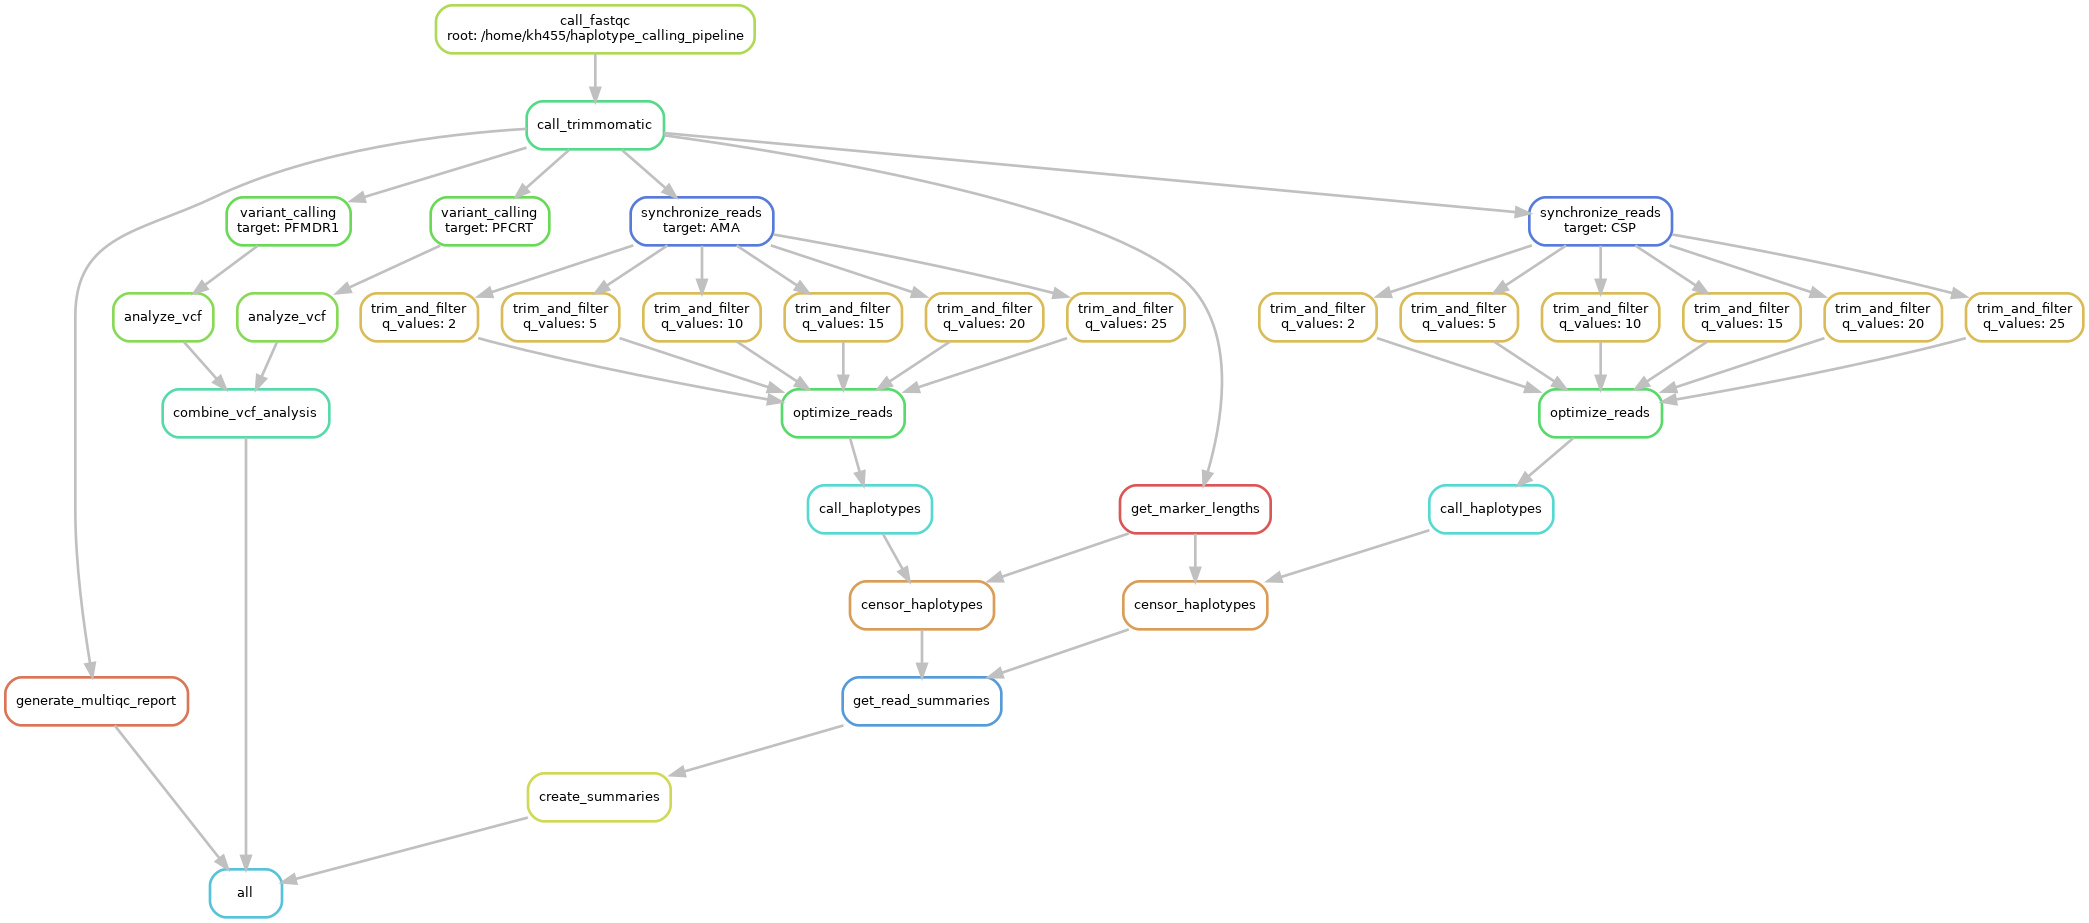
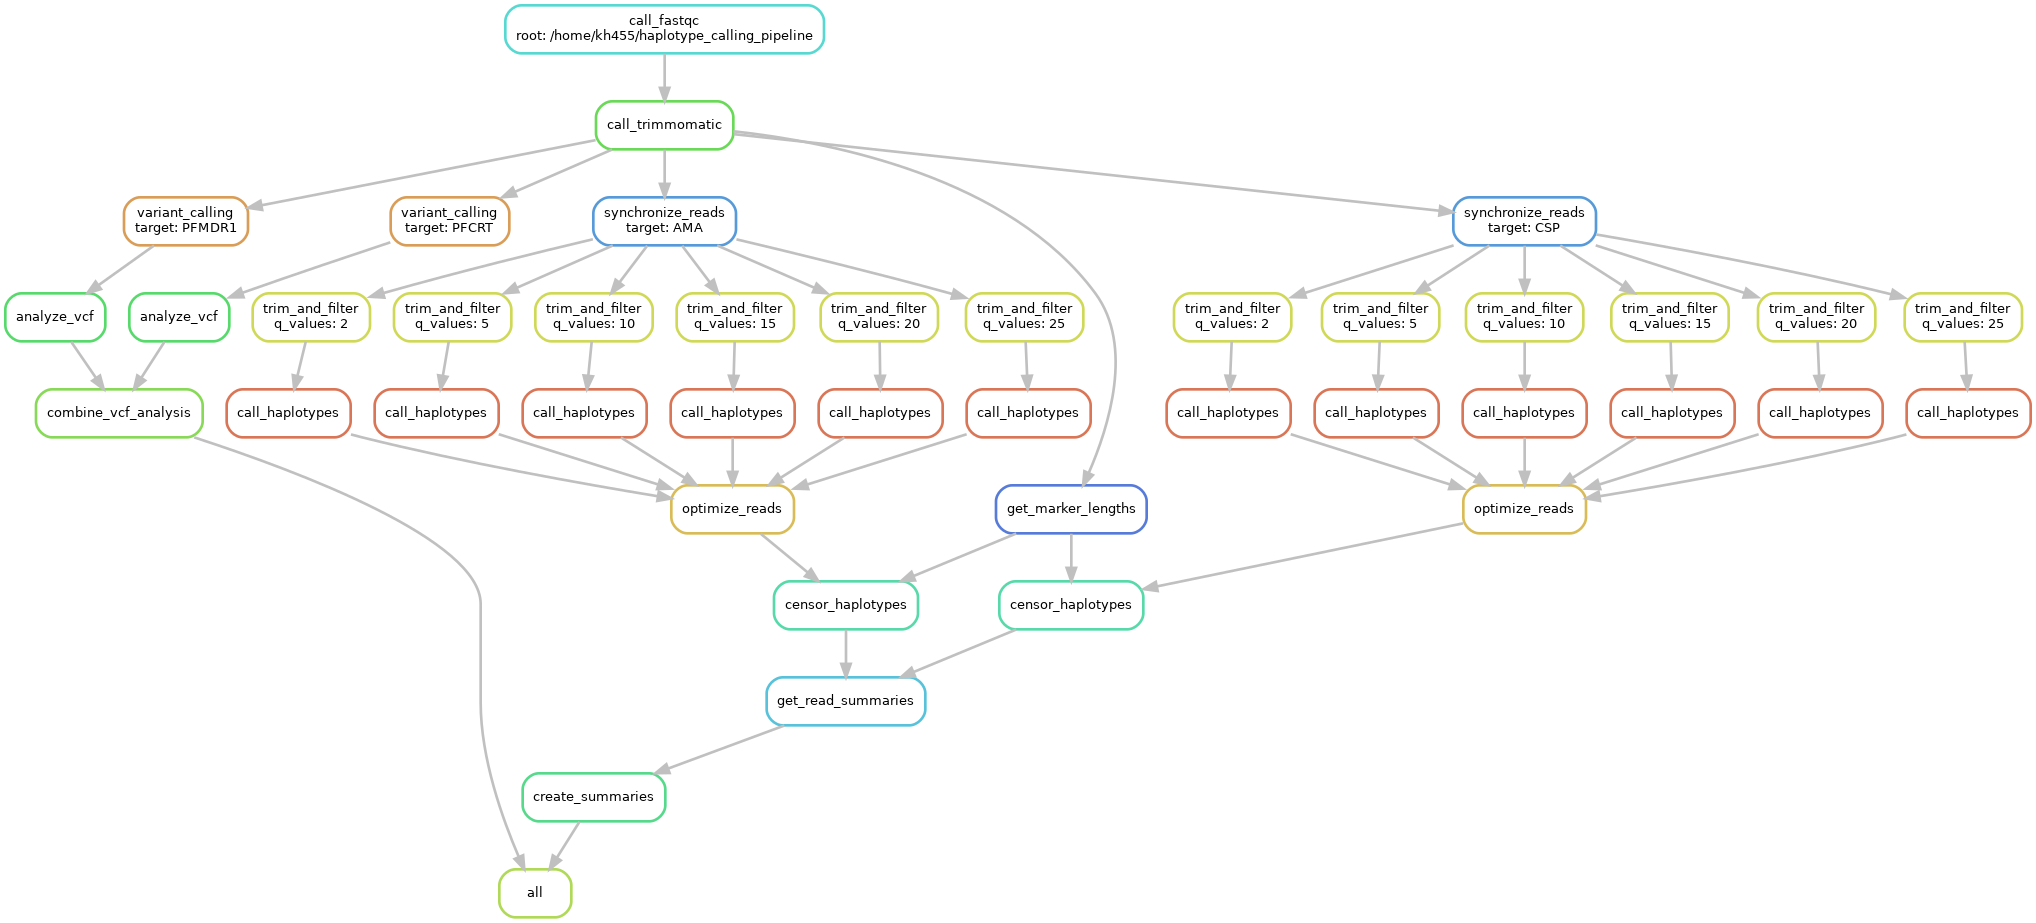
updated README and dag

diff --git a/README.md b/README.md
@@ -46,9 +46,9 @@ These first three rules are called for the given input data, regardless of wheth
 
 `trim_and_filter` filters and trims the forward and reverse reads using the DADA2 program and outputs them into a `filtered` folder.
 
-`optimize_reads` finds the quality score that produces the highest number of read counts and uses only the filtered reads created using that quality score.
-
 `call_haplotypes` calls haplotypes for your target(s) and writes the results out into a reads table.
+
+`optimize_reads` finds the quality score that produces the highest number of read counts and uses only the filtered reads created using that quality score.
 
 `censor_haplotypes` censors falsely detected haplotypes. Censoring criteria is applied in this order:
 1. Haplotypes that occur in < 250 of the sample’s reads are removed. You can change this criteria in the config file ("read_depth").
@@ -310,32 +310,6 @@ And the AMA read count table looked like this:
 | 5  | 81096  |
 | 10 | 116036 |
 
-`optimize_reads` should produce an `optimize_reads_out` folder with 3 files: `{target}_final_q_value`, `{target}_max_read_count`, and `{target}_final_trim_and_filter_table`.
-- `{target}_final_q_value`: contains the quality score that produced the highest number of read counts.
-- `{target}_max_read_count`: contains the value of the highest number of read counts—the read count associated with the optimal quality score.
-- `{target}_finalTrimAndFilterTable`: contains the trim and filter table that was created with the optimal quality score.
-
-With our small sample, the AMA final q value was:
-`10`
-
-The AMA max read count was:
-`116036`
-
-And the final AMA trim and filter table looked like this:
-
-|                     | reads.in | reads.out |
-|---------------------|----------|-----------|
-| BF1_AMA_1.fastq.gz  | 13072    | 11777     |
-| BF10_AMA_1.fastq.gz | 14875    | 13384     |
-| BF2_AMA_1.fastq.gz  | 15269    | 13718     |
-| BF3_AMA_1.fastq.gz  | 10116    | 8491      |
-| BF4_AMA_1.fastq.gz  | 13672    | 12226     |
-| BF5_AMA_1.fastq.gz  | 12650    | 11119     |
-| BF6_AMA_1.fastq.gz  | 14591    | 13085     |
-| BF7_AMA_1.fastq.gz  | 12760    | 11350     |
-| BF8_AMA_1.fastq.gz  | 11474    | 10326     |
-| BF9_AMA_1.fastq.gz  | 12432    | 10560     |
-
 `call_haplotypes` should add a temporary file `{target}_haplotypes.rds` to the `haplotype_output` folder as well as a file `{target}_track_reads_through_pipeline.csv` to the `trim_filter_out` folder. 
 - `{target}_haplotypes.rds`: R file that stores the haplotype results data set for further manipulation in `censor_haplotypes`. 
 - `{target}_track_reads_through_pipeline.csv`: tracks the reads, looking at the number of reads that made it through each step of the pipeline.
@@ -354,6 +328,32 @@ With our small sample, the track reads through pipeline table for AMA looked lik
 | BF7  | 11049  | 11049  | 10773   |
 | BF8  | 10314  | 10314  | 10314   |
 | BF9  | 10549  | 10549  | 10549   |
+
+`optimize_reads` should produce an `optimize_reads_out` folder with 3 files: `{target}_final_q_value`, `{target}_max_read_count`, and `{target}_final_track_reads_through_pipeline`.
+- `{target}_final_q_value`: contains the quality score that produced the highest number of read counts.
+- `{target}_max_read_count`: contains the value of the highest number of read counts—the read count associated with the optimal quality score.
+- `{target}_final_track_reads_through_pipeline`: contains the reads table that was created with the optimal quality score.
+
+With our small sample, the AMA final q value was:
+`10`
+
+The AMA max read count was:
+`114561`
+
+And the final AMA trim and filter table looked like this:
+
+|      |merged|tabled|nonchim|
+|------|------|------|-------|
+|BF1   |11768 |11768 |11768  |
+|BF10  |13377 |13377 |13377  |
+|BF2   |13681 |13681 |13681  |
+|BF3   |8450  |8450  |8450   |
+|BF4   |12211 |12211 |12211  |
+|BF5   |10584 |10584 |10360  |
+|BF6   |13078 |13078 |13078  |
+|BF7   |11049 |11049 |10773  |
+|BF8   |10314 |10314 |10314  |
+|BF9   |10549 |10549 |10549  |
 
 `censor_haplotypes` should produce a `haplotypes` folder for each target with two files `{target}_haplotype_table_precensored.csv` and `{target}_haplotype_table_censored_final_version.csv`. It should also produce a `sequences` folder with four files: `{target}_snps_between_haps_within_samples.fasta`, `{target}_unique_seqs.fasta`, `{target}_aligned_seqs.fasta`, and `{target}_unique_seqs_final_censored.fasta`.
 - `{target}_haplotype_table_precensored.csv`: outputs the haplotype data set prior to beginning the censoring process (essentially `{target}_haplotypes.rds` in a formatted csv file). 
